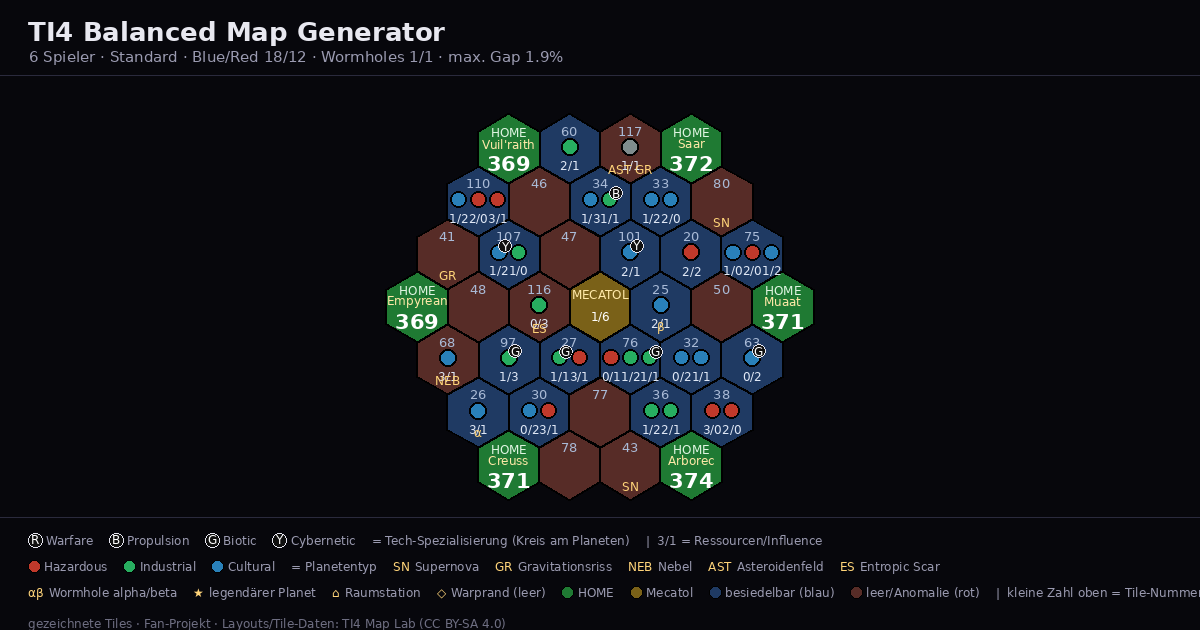
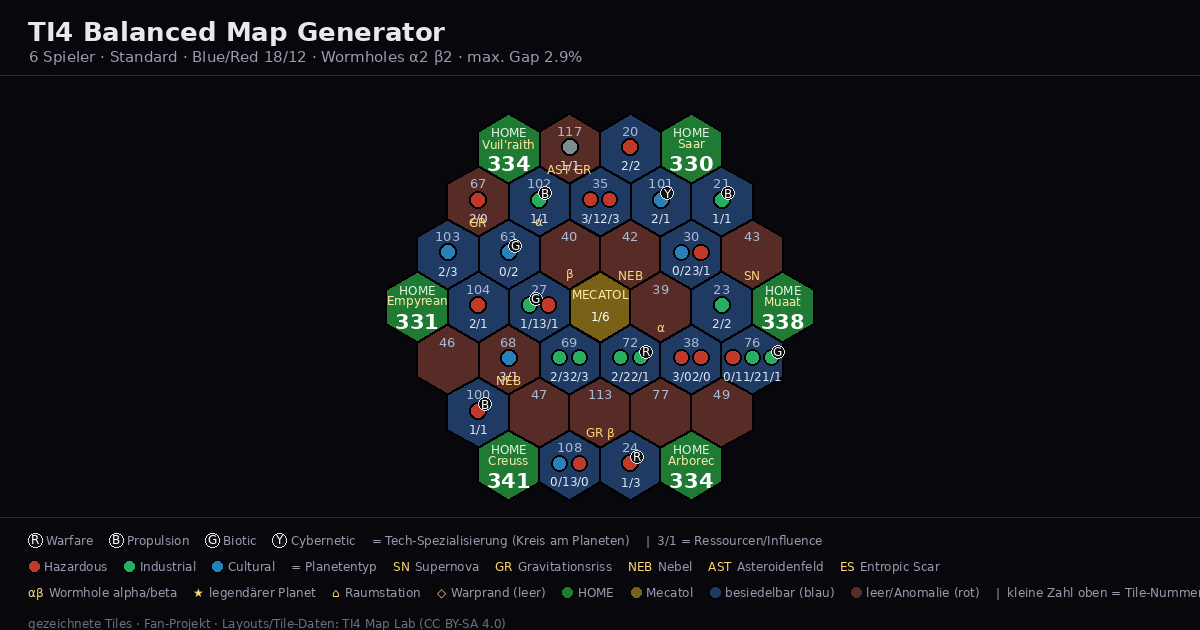
Fix wormhole rule: each type 0 or >=2 (no lone wormholes)
Reported bug: 'alpha count == beta count >= 1' allowed exactly 1 alpha + 1 beta,
i.e. two useless lone wormholes. Base game has 2 alpha (26,39) and 2 beta (25,40).

- New rule: per type either 0 or >=2 tiles; with the option (or Creuss) at least one
  pair per type available in the pool. More than 2 of a type is fine.
- Replaces balanceWormholes with ensureWormholes + wormholeTypes (generic over all
  types, keeps blue/red ratio by swapping same-colour tiles)
- Fixed a real bug in the new replacement helper: the 'same colour victim' filter used
  indexOf(x)<0, so splice(-1,1) deleted the LAST element (could remove a needed
  supernova/anomaly and break faction placement)
- missingFeatures now requires a pairable wormhole (>=2 of some type)
- stats/pill show counts per type and validate 0-or->=2; legend/labels/docs updated
- Contest mode is now strict (both -> near, no silent 'own' fallback); layouts without
  a shared border zone report clearly instead of 'no map found'
- test.js asserts the invariant for pool and placed map + both base pairs present

Changed region(s): [[0.3392, 0.181, 0.6783, 0.7841], [0.3392, 0.0603, 0.4933, 0.1206]]

diff --git a/app.js b/app.js
@@ -75,6 +75,12 @@
     const miss=[];
     for(const name of (factions||[])){
       const f=factionNeed(name); if(!f) continue;
+      if(f.kind==="wormhole"){
+        // Es braucht ein vollstaendiges Paar (>=2) eines Typs.
+        const ok=wormholeTypes(pool).some(T=>pool.filter(x=>x.wormhole===T).length>=2);
+        if(!ok && miss.indexOf("Wormhole (mind. 2 gleiche)")<0) miss.push("Wormhole (mind. 2 gleiche)");
+        continue;
+      }
       if(!pool.some(s=>hasFeature(s,f))){ const l=needLabel(f); if(miss.indexOf(l)<0) miss.push(l); }
     }
     return miss;
@@ -285,69 +291,47 @@
     return sel;
   }
 
+  // Wormhole-Regel: pro Typ entweder 0 oder mindestens 2. Ein einzelnes Wormhole ist
+  // funktionslos (es hat keinen Partner). Mit requireAll wird fuer jeden im Vorrat
+  // vorhandenen Typ ein vollstaendiges Paar (>=2) erzwungen. Ersetzt werden nur Tiles
+  // gleicher Farbe, damit das Blue/Red-Verhaeltnis erhalten bleibt.
+  function wormholeTypes(pool){
+    const types=[];
+    for(const t of pool){ if(t.wormhole!==null && t.wormhole!==undefined && types.indexOf(t.wormhole)<0) types.push(t.wormhole); }
+    return types;
+  }
+  function ensureWormholes(sel, pool, requireAll, rng){
+    const blue=pool.filter(isBlue), red=pool.filter(isRed);
+    for(const T of wormholeTypes(pool)){
+      const avail=pool.filter(x=>x.wormhole===T);
+      let cur=sel.filter(x=>x.wormhole===T).length;
+      const target = requireAll ? Math.min(2, avail.length) : (cur>=2 ? cur : 0);
+      while(cur < target){                                  // auf ein vollstaendiges Paar auffuellen
+        const add=avail.filter(x=>sel.indexOf(x)<0); if(!add.length) break;
+        const t=add[Math.floor(rng()*add.length)];
+        const same=(isBlue(t)?blue:red).filter(x=>x.wormhole===null && sel.indexOf(x)>=0);
+        if(!same.length) break;
+        sel.splice(sel.indexOf(same[Math.floor(rng()*same.length)]),1); sel.push(t); cur++;
+      }
+      if(cur===1){                                          // einzelnes Wormhole nicht stehen lassen
+        const only=sel.find(x=>x.wormhole===T);
+        const repl=(isBlue(only)?blue:red).filter(x=>x.wormhole===null && sel.indexOf(x)<0);
+        if(repl.length){ sel.splice(sel.indexOf(only),1); sel.push(repl[Math.floor(rng()*repl.length)]); }
+      }
+    }
+    return sel;
+  }
+
   function chooseTiles(pool, nOpen, ratio, wantWh, rng, demand){
     const blue = pool.filter(isBlue), red = pool.filter(isRed);
     let nB = Math.round(nOpen*ratio); nB = Math.max(0, Math.min(nB, blue.length));
     let nR = nOpen-nB;
     if(nR > red.length){ nR = red.length; nB = Math.min(nOpen-nR, blue.length); }
     const build = ()=>shuffle(blue.slice(),rng).slice(0,nB).concat(shuffle(red.slice(),rng).slice(0,nR));
-    if(!wantWh && !(demand||[]).some(d=>d.feature.kind==="wormhole")) return ensureFeatures(build(), blue, red, demand||[], rng);
-    const aOf = sel=>sel.filter(x=>x.wormhole===WORMHOLES.ALPHA).length;
-    const bOf = sel=>sel.filter(x=>x.wormhole===WORMHOLES.BETA).length;
-    for(let t=0;t<300;t++){
-      const sel=ensureFeatures(balanceWormholes(build(), blue, red, true, rng), blue, red, demand||[], rng);
-      const a=aOf(sel), b=bOf(sel);
-      if(a===b && a>=1) return sel;   // garantiert mindestens ein korrektes Paar
-    }
-    // Notfall (praktisch nie): Wormholes durch gleichfarbige Nicht-Wormholes ersetzen
-    const sel=ensureFeatures(build(), blue, red, demand||[], rng), used={}; sel.forEach(t=>used[t.id]=1);
-    const repl=(blueFlag)=>(blueFlag?blue:red).filter(x=>x.wormhole===null && !used[x.id]);
-    return sel.map(t=>{
-      if(t.wormhole===null) return t;
-      const r=repl(isBlue(t));
-      if(r.length){ const pick=r[0]; used[pick.id]=1; return pick; }
-      return t;
-    });
-  }
-
-  function balanceWormholes(sel, blue, red, wantPairs, rng){
-    const A=WORMHOLES.ALPHA, B=WORMHOLES.BETA;
-    const cnt = () => { let a=0,b=0; for(const t of sel){ if(t.wormhole===A)a++; else if(t.wormhole===B)b++; } return [a,b]; };
-    const free = (isblue) => (isblue?blue:red).filter(x => x.wormhole===null && sel.indexOf(x)<0);
-    let guard=0;
-    while(guard++ < 40){
-      const c=cnt(), a=c[0], b=c[1];
-      if(a===b && (!wantPairs || a>=1)) break;
-      if(a>b || (a===0 && b===0 && wantPairs)){
-        const major = (a===b) ? null : A;
-        if(major!==null){
-          const t = sel.find(x=>x.wormhole===major);
-          const r = free(isBlue(t));
-          if(!r.length) break;
-          sel.splice(sel.indexOf(t),1); sel.push(r[Math.floor(rng()*r.length)]);
-        } else {
-          let done=false;
-          for(const pr of [[26,25],[102,64],[39,40],[79,113]]){
-            const Al=SYS[pr[0]], Be=SYS[pr[1]];
-            if(!Al||!Be||sel.indexOf(Al)>=0||sel.indexOf(Be)>=0) continue;
-            const isblue=isBlue(Al);
-            if(isblue!==isBlue(Be)) continue;
-            const bp=isblue?blue:red;
-            if(bp.indexOf(Al)<0||bp.indexOf(Be)<0) continue;
-            const removable=sel.filter(x=>x.wormhole===null && isBlue(x)===isblue);
-            if(removable.length<2) continue;
-            sel.splice(sel.indexOf(removable[0]),1); sel.splice(sel.indexOf(removable[1]),1);
-            sel.push(Al,Be); done=true; break;
-          }
-          if(!done) break;
-        }
-      } else {
-        const t = sel.find(x=>x.wormhole===B);
-        const r = free(isBlue(t));
-        if(!r.length) break;
-        sel.splice(sel.indexOf(t),1); sel.push(r[Math.floor(rng()*r.length)]);
-      }
-    }
+    const needWh = wantWh || (demand||[]).some(d=>d.feature.kind==="wormhole");
+    let sel = build();
+    sel = ensureFeatures(sel, blue, red, demand||[], rng);   // Faktionsbedarf zuerst
+    sel = ensureWormholes(sel, pool, needWh, rng);           // Wormholes: je Typ 0 oder >=2
     return sel;
   }
 
@@ -368,7 +352,9 @@
     // 1) Fraktionsbedarf zuerst. Bei "contest" wird die beste erfuellbare Stufe gewaehlt:
     //    eigenes + beide Nachbarn > eigenes + >=1 Nachbar > nur eigenes.
     for(const r of (st.reqs||[])){
-      const lists = st.contest ? [r.positionsBoth, r.positionsNear, r.positions] : [r.positions];
+      // Kontest-Modus: streng only "eigenes + beide Nachbarn" bzw. "eigenes + >=1 Nachbar".
+      // Klappt beides nicht, wird der Versuch verworfen (kein stiller Fallback auf "nur eigenes").
+      const lists = st.contest ? [r.positionsBoth, r.positionsNear] : [r.positions];
       let ok=false;
       for(const l of lists){ if(placeFeatureAt(st, place, pool, rng, l, r.feature, pinned)){ ok=true; break; } }
       if(!ok) return null;   // Bedarf nicht platzierbar -> neuer Versuch
@@ -730,8 +716,14 @@
       if(p.traits) for(const tr of p.traits){ if(tr===PLANET_TRAITS.HAZARDOUS)haz++; else if(tr===PLANET_TRAITS.INDUSTRIAL)ind++; else if(tr===PLANET_TRAITS.CULTURAL)cul++; }
     }
     tech=tech.split("").sort().join("");
-    return { blue, red, res, inf, tech, traits:`${haz}/${ind}/${cul}`,
-      wh:`${systems.filter(s=>s.wormhole===WORMHOLES.ALPHA).length}/${systems.filter(s=>s.wormhole===WORMHOLES.BETA).length}` };
+    // Wormholes je Typ zaehlen; gueltig ist 0 oder >=2 pro Typ (ein Einzelnes ist nutzlos).
+    const whNames={}; whNames[WORMHOLES.ALPHA]="α"; whNames[WORMHOLES.BETA]="β"; whNames[WORMHOLES.DELTA]="δ";
+    const wc={};
+    for(const s of systems){ if(s.wormhole!==null && s.wormhole!==undefined) wc[s.wormhole]=(wc[s.wormhole]||0)+1; }
+    const wkeys=Object.keys(wc);
+    const wh = wkeys.length ? wkeys.map(k2=>whNames[k2]+wc[k2]).join(" ") : "–";
+    const whOk = wkeys.every(k2=>wc[k2]>=2);
+    return { blue, red, res, inf, tech, traits:`${haz}/${ind}/${cul}`, wh:wh, whOk:whOk };
   }
 
   // ---- UI ----
@@ -845,7 +837,7 @@
       item(`<span class="lg-t">Planetentyp:</span>`,
         pair(sw(th.trait[0]),"Hazardous")+pair(sw(th.trait[1]),"Industrial")+pair(sw(th.trait[2]),"Cultural")),
       item(`<span class="lg-t">Anomalien:</span>`, acrList.map(a=>pair(gly(a), ANOM_DE[a]||a)).join("")),
-      item(`<span class="lg-t">Wormhole:</span>`, pair(gly("α"),"Alpha")+pair(gly("β"),"Beta")),
+      item(`<span class="lg-t">Wormhole (je Typ 0 oder ≥2):</span>`, pair(gly("α"),"Alpha")+pair(gly("β"),"Beta")),
       item(pair(gly("★"),"legendärer Planet")+pair(gly("⌂"),"Raumstation")+pair(gly("◇"),"Warprand (leer)")),
       item(pair(`<span class="lg-num">110</span>`,"Tile-Nummer (System)")),
       item(`<span class="lg-t">Felder:</span>`,
@@ -870,7 +862,7 @@
       `<span class="pill">Res/Inf <b>${s.res}/${s.inf}</b></span>`+
       `<span class="pill">Tech <b>${s.tech||"-"}</b></span>`+
       `<span class="pill">Traits R/G/B <b>${s.traits}</b></span>`+
-      `<span class="pill ${s.wh.split("/")[0]===s.wh.split("/")[1]?"good":"bad"}">Wormholes α/β <b>${s.wh}</b></span>`;
+      `<span class="pill ${s.whOk?"good":"bad"}">Wormholes <b>${s.wh}</b></span>`;
     prep.forEach(function(E,i){ const g=gaps[i];
       pills += `<span class="pill ${rel[i]===0?"good":(rel[i]<=0.02?"warn":"bad")}">Gap ${shortName(E.name)} <b>${g}</b></span>`; });
     pills += `<span class="pill ${maxRel<=0.02?"good":"warn"}">Max Gap <b>${(maxRel*100).toFixed(1)}%</b></span>`;
@@ -899,6 +891,12 @@
       const left=totalMs-(performance.now()-t0);
       if(left<600 && best) break;
       const st=buildState(title, pool, evSlice(), factions, contest);
+      if(contest){
+        // Layouts ohne gemeinsame Randzone (z. B. 3-Player Standard/Warp) koennen den
+        // Kontest-Modus nicht erfuellen -> klar melden statt "keine Karte gefunden".
+        const bad=(st.reqs||[]).filter(r=>!r.positionsNear || !r.positionsNear.length);
+        if(bad.length) return { error:"contest", factions:bad.map(r=>st.factionNames[st.homes.indexOf(r.home)]) };
+      }
       st.pool=chooseTiles(pool, st.opens.length, ratio, wantWh, rng, featureDemand(st));
       if(st.pool.length<st.opens.length) return { error:"tiles", have:st.pool.length, need:st.opens.length };
       st.allPool=pool;
@@ -933,6 +931,7 @@
         const cbc=$("contestFeature");
         const contest = !!(cbc && cbc.checked && !cbc.disabled);
         const r=generateRounds(title, pool, ratio, needWh, rng, total, 0.02, 4, factions, contest);
+        if(r && r.error==="contest"){ setStatus("Dieses Layout hat für "+r.factions.join(", ")+" keine gemeinsame Randzone mit den Nachbarn. Bitte „für Nachbarn erreichbar“ ausschalten oder ein anderes Layout wählen."); $("generate").disabled=false; return; }
         if(r && r.error){ setStatus(`Zu wenige Tiles (${r.have}/${r.need}). Mehr Erweiterungen anhaken.`); $("generate").disabled=false; return; }
         if(!r){ setStatus("Keine legale Karte gefunden – nochmal versuchen."); $("generate").disabled=false; return; }
         cur={ st:r.st, place:r.res.place, prep:r.prep, gaps:r.res.gaps };
@@ -999,5 +998,5 @@
   renderLegend();
   setStatus("Bereit. „Karte generieren“ klicken.");
 
-  if(typeof window!=="undefined"){ window.__ti4 = { buildState, buildPool, chooseTiles, balanceWormholes, generateFull, generateRounds, hillClimbAll, climbOne, bankClimb, perturb, gapsRel, oneSided, valsE, prepareEvals, randomFill, computeVals, computeHomeW, sysConflicts, render, mapString, stats, range, mulberry32, makeEval, evalUnder, evSlice, evJoe, isRed, isBlue, sysGlyphs, TECH_LETTER, ANOM_LABEL, LAYOUTS, SYS, default_evaluators, FACTIONS, factionNeed, hasFeature, featureDemand, featureReport, missingFeatures, reachPositions, THEMES, shortFaction, legendHTML, loadThemePref, saveThemePref }; }
+  if(typeof window!=="undefined"){ window.__ti4 = { buildState, buildPool, chooseTiles, ensureWormholes, wormholeTypes, generateFull, generateRounds, hillClimbAll, climbOne, bankClimb, perturb, gapsRel, oneSided, valsE, prepareEvals, randomFill, computeVals, computeHomeW, sysConflicts, render, mapString, stats, range, mulberry32, makeEval, evalUnder, evSlice, evJoe, isRed, isBlue, sysGlyphs, TECH_LETTER, ANOM_LABEL, LAYOUTS, SYS, default_evaluators, FACTIONS, factionNeed, hasFeature, featureDemand, featureReport, missingFeatures, reachPositions, THEMES, shortFaction, legendHTML, loadThemePref, saveThemePref }; }
 })();

diff --git a/test.js b/test.js
@@ -15,6 +15,11 @@ const pool=T.buildPool(true,true,true);
 const BUDGET=+(process.argv[2]||3000);
 let fails=0, worst=0;
 
+// Wormhole-Regel: pro Typ 0 oder >=2.
+function whCountsOf(arr){ const c={}; for(const s of arr){ if(s.wormhole!==null && s.wormhole!==undefined) c[s.wormhole]=(c[s.wormhole]||0)+1; } return c; }
+function whBad(counts){ return Object.keys(counts).filter(k=>counts[k]<2).map(k=>k+":"+counts[k]); }
+function whStr(counts){ return Object.keys(counts).map(k=>(+k===0?"α":+k===1?"β":"δ")+counts[k]).join(" ")||"–"; }
+
 const titles=[];
 for(const p of ["3","4","5","6"]) for(const t of T.LAYOUTS[p]) titles.push([p,t]);
 
@@ -24,9 +29,9 @@ for(const [p,title] of titles){
   st.pool=T.chooseTiles(pool,st.opens.length,0.60,true,rng);
   st.allPool=pool;
 
-  // Wormholes immer paarweise?
-  const a=st.pool.filter(s=>s.wormhole===0).length, b=st.pool.filter(s=>s.wormhole===1).length;
-  if(a!==b||a<1){ console.log("WORMHOLE FEHLER", title, a, b); fails++; }
+  // Wormholes: je Typ 0 oder >=2; Option aktiv -> mindestens ein Paar je Typ
+  const whC=whCountsOf(st.pool), badPool=whBad(whC);
+  if(badPool.length){ console.log("WORMHOLE FEHLER im Vorrat", title, whStr(whC)); fails++; }
 
   const Es=T.prepareEvals(st);
   const res=T.generateFull(st,Es,rng,BUDGET,0.02);
@@ -35,8 +40,8 @@ for(const [p,title] of titles){
   const g=res.gaps, rl=res.rel;
   const ids=Object.values(res.place).map(s=>s.id);
   if(new Set(ids).size!==ids.length){ console.log("DUPLIKAT-TILE", title); fails++; }
-  const wa=Object.values(res.place).filter(s=>s.wormhole===0).length, wb=Object.values(res.place).filter(s=>s.wormhole===1).length;
-  if(wa!==wb){ console.log("WORMHOLE UNPAAR nach Optimierung", title, wa, wb); fails++; }
+  const whP=whCountsOf(Object.values(res.place)), badPl=whBad(whP);
+  if(badPl.length){ console.log("WORMHOLE UNPAAR nach Optimierung", title, whStr(whP)); fails++; }
   const sideE=Es.map(E=>E.name).filter((_,i)=>rl[i]>0.02);
   if(sideE.length) console.log("   einseitig:", sideE.join(", "));
   const maxRel=Math.max.apply(null,rl);
@@ -71,6 +76,18 @@ for(const [title,factions,contest,needNb] of fcases){
   if(bad.length||dup||lonely.length){ console.log("   FEHLER", bad.length?"Bedarf unerfüllt":"", lonely.length?("nicht kontestiert: "+lonely.map(x=>x.name).join(",")):"", dup?"Dublette":""); fails++; }
 }
 console.log(fails ? ("FAILS="+fails) : "OK - Faktionsbedarf überall erfüllt");
+
+// ---- Wormhole-Regel (Grundspiel: vollstaendige Paare) ----
+{
+  const base=T.buildPool(true,false,false);
+  const sel=T.chooseTiles(base, 30, 0.60, true, T.mulberry32(1), []);
+  const ids=sel.map(s=>s.id), c=whCountsOf(sel);
+  const needIds=[26,39,25,40];                                  // beide Alpha + beide Beta
+  const missing=needIds.filter(i=>ids.indexOf(i)<0);
+  const ok = missing.length===0 && whBad(c).length===0;
+  console.log("Wormhole-Paare (Grundspiel):", ok?("OK "+whStr(c)+" (26,39,25,40 enthalten)"):("FEHLER "+whStr(c)+" fehlt:"+missing.join(",")));
+  if(!ok){ fails++; console.log("FAILS="+fails); }
+}
 
 // ---- Legende ----
 {

diff --git a/index.html b/index.html
@@ -58,7 +58,7 @@
     </div>
 
     <div class="field">
-      <label class="check"><input type="checkbox" id="wh" checked> Wormholes als Paare</label>
+      <label class="check"><input type="checkbox" id="wh" checked> Wormholes paarweise (je Typ mindestens 2)</label>
     </div>
 
     <div class="field">

diff --git a/README.md b/README.md
@@ -21,9 +21,10 @@ Basiert auf den Layouts und Tile-Daten des [TI4 Map Lab](https://github.com/joep
   keine Bewertung mehr über der Zielschwelle liegt.
 - **Evaluator-Umschalter** (Anzeige/Details) und Button **„Balance verbessern“** zum Nachoptimieren einer Karte.
 - Ziel-**Blau-Anteil** einstellbar (Standard 60 % ≈ Community-Verhältnis 3:2).
-- **Wormholes immer paarweise:** Es sind gleich viele α wie β vorhanden, sofern die Option aktiv ist (mindestens ein
-  vollständiges Paar). Da der Optimierer nur gleichfarbige Tiles mit gleichem Wormhole-Typ tauscht, bleibt das Paar
-  garantiert erhalten.
+- **Wormholes je Typ 0 oder mindestens 2:** Ein einzelnes Wormhole ist funktionslos (es hat keinen Partner), deshalb
+  sind pro Typ entweder 0 oder ≥ 2 Tiles auf der Karte (mehr ist erlaubt). Ist die Option aktiv (oder Creuss dabei),
+  wird von **jedem** im Tile-Vorrat vorhandenen Typ mindestens ein Paar erzwungen. Da der Optimierer nur gleichfarbige
+  Tiles mit gleichem Wormhole-Typ tauscht, bleibt die Paarung garantiert erhalten.
 - Legalität wird erzwungen: keine zwei Anomalien benachbart, keine zwei gleichen Wormholes benachbart.
 - **Faktionen berücksichtigen (optional):** sichert je gewählter Fraktion das vorteilhafte Kartenmerkmal
   (Muaat→Supernova, Saar→Asteroidenfeld, Empyrean→Nebel, Vuil'raith→Gravitationsriss, Creuss→α/β-Wormhole)
@@ -42,7 +43,7 @@ Basiert auf den Layouts und Tile-Daten des [TI4 Map Lab](https://github.com/joep
 | `Res/Inf` | Summe **Ressourcen** und **Influence** aller Planeten auf der Karte. |
 | `Tech` | Vorkommende Tech-Spezialisierungen als Buchstaben: **R**=Warfare, **B**=Propulsion, **G**=Biotic, **Y**=Cybernetic. |
 | `Traits R/G/B` | Anzahl roter / grüner / blauer Planeten (Hazardous / Industrial / Cultural). |
-| `Wormholes α/β` | Anzahl Alpha- und Beta-Wormholes. |
+| `Wormholes` | Anzahl je Typ (α/β/δ). Gültig ist **0 oder ≥ 2** pro Typ (ein Einzelnes wäre nutzlos; mehr als 2 sind erlaubt). |
 | `Gap <Evaluator>` | **Gap** = größter minus kleinster Home-Wert unter allen Spielern (in Einheiten des Evaluators). |
 | `Max Gap` | größter **relativer** Gap über alle Evaluatoren in % (siehe unten). |
 | `Einseitig` | Evaluatoren, deren relativer Gap über der Zielschwelle (2 %) liegt – „hier ist es noch schief“. |
@@ -88,7 +89,7 @@ git push -u origin main
 - **Zielfunktion**: minimiert wird `Summe(relative Gaps) + 8 × größter relativer Gap` – der schlechteste Evaluator
   zählt also am stärksten (Mini-Max).
 - **Ablauf** beim Klick auf „Karte generieren“ (alles automatisch, kein Zutun nötig):
-  1. Tile-Vorrat wählen (Blau/Rot-Ziel, Wormholes paarweise).
+  1. Tile-Vorrat wählen (Blau/Rot-Ziel, Wormholes je Typ ≥ 2).
   2. Pro Runde: neue Zufallskarte → Warmup auf Simple Slice/Joebrew → Optimierung über **alle fünf** Evaluatoren
      → Bank-Tausche; zwischendurch „Kicks“ (Iterated Local Search). Bei Stillstand wird die Zufallskarte intern neu
      gewürfelt.
@@ -116,7 +117,9 @@ es möglichst auch die **Nachbarn** erreichen können – gestuft:
 | `own` | nur eigenes Home (Fallback) |
 
 Gewählt wird die **beste erfüllbare** Stufe; sie wird unter der Karte am Heimatsystem bzw. in der Datenzeile
-angezeigt. **Wichtiger Befund**
+angezeigt. Ist der Kontest-Schalter aktiv, wird **kein** stiller Rückfall auf „nur eigenes" gemacht: lässt sich
+für ein Merkmal keine gemeinsame Randzone finden, wird ein neuer Versuch gewürfelt; gibt es im Layout gar keine
+gemeinsame Randzone (z. B. *3-Player Standard/Warp*), meldet die App das ausdrücklich. **Wichtiger Befund**
 (`tools/probe_reach.js`): Stufe `both` ist in **keinem** der eingebauten Layouts erfüllbar (Schnittmenge der
 drei Slices = 0), Stufe `near` dagegen in allen außer *3-Player Standard* und *3-Player Warp*. Der Schalter
 bewirkt also real, dass das Merkmal in die **umkämpfte Randzone** zwischen dem eigenen und einem Nachbar-Slice
@@ -141,8 +144,8 @@ gelegt wird statt tief ins eigene Gebiet.
 3. **Fixierung:** die so platzierten Tiles werden **gepinnt**. `swapLegal` (Tausch-Suche) und `bankClimb`
    (Bank-Tausch) lassen sie unangetastet – die Balance-Optimierung kann sie also nicht mehr aus der
    Reichweite schieben, während alle übrigen Tiles normal optimiert werden.
-4. **Wormholes:** wird Creuss gewählt, wird die α/β-Paar-Garantie auch dann erzwungen, wenn die Option
-   „Wormholes als Paare“ ausgeschaltet ist.
+4. **Wormholes:** wird Creuss gewählt, wird die Paar-Garantie (je Typ ≥ 2) auch dann erzwungen, wenn die Option
+   „Wormholes paarweise“ ausgeschaltet ist.
 5. **Anzeige/Prüfung:** `featureReport` prüft nach der Optimierung je Fraktion die erreichte Stufe
    (`both`/`near`/`own`) bzw. „fehlt“ (Kennzeichnung grün/rot unter der Karte, Fraktionskürzel am
    Heimatsystem). `test.js` verifiziert das für 4/5/6 Spieler – auch im Kontest-Modus.
@@ -177,7 +180,7 @@ Unterhalb der Karte steht auf der Webseite eine Legende; dieselbe Erklärung fin
 | `3/1` unter dem Planeten | Ressourcen / Influence des Planeten |
 | Punktfarbe des Planeten | rot = Hazardous, grün = Industrial, blau = Cultural |
 | `SN` `GR` `NEB` `AST` `ES` | Anomalien: Supernova, Gravitationsriss, Nebel, Asteroidenfeld, Entropic Scar |
-| `α` / `β` | Alpha- / Beta-Wormhole |
+| `α` / `β` | Alpha- / Beta-Wormhole (je Typ 0 oder ≥ 2 auf der Karte) |
 | `★` / `⌂` | legendärer Planet / Raumstation |
 | kleine Zahl oben | System-Tile-Nummer |
 | `HOME` + Wert | Heimatsystem und sein Home-Wert |
@@ -213,7 +216,7 @@ python3 build_data.py
 ## Test & Benchmark
 
 ```bash
-# Vollständige Prüfung: Gaps, legale Platzierung, Wormhole-Paare, keine Tile-Dubletten + Faktions-Garantien
+# Vollständige Prüfung: Gaps, legale Platzierung, Wormhole-Paare (je Typ ≥2), keine Tile-Dubletten + Faktions-Garantien
 node test.js 4000        # optional: Zeitbudget in ms pro Karte
 
 # Benchmark der App-Pipeline (generateRounds) über alle Layouts
